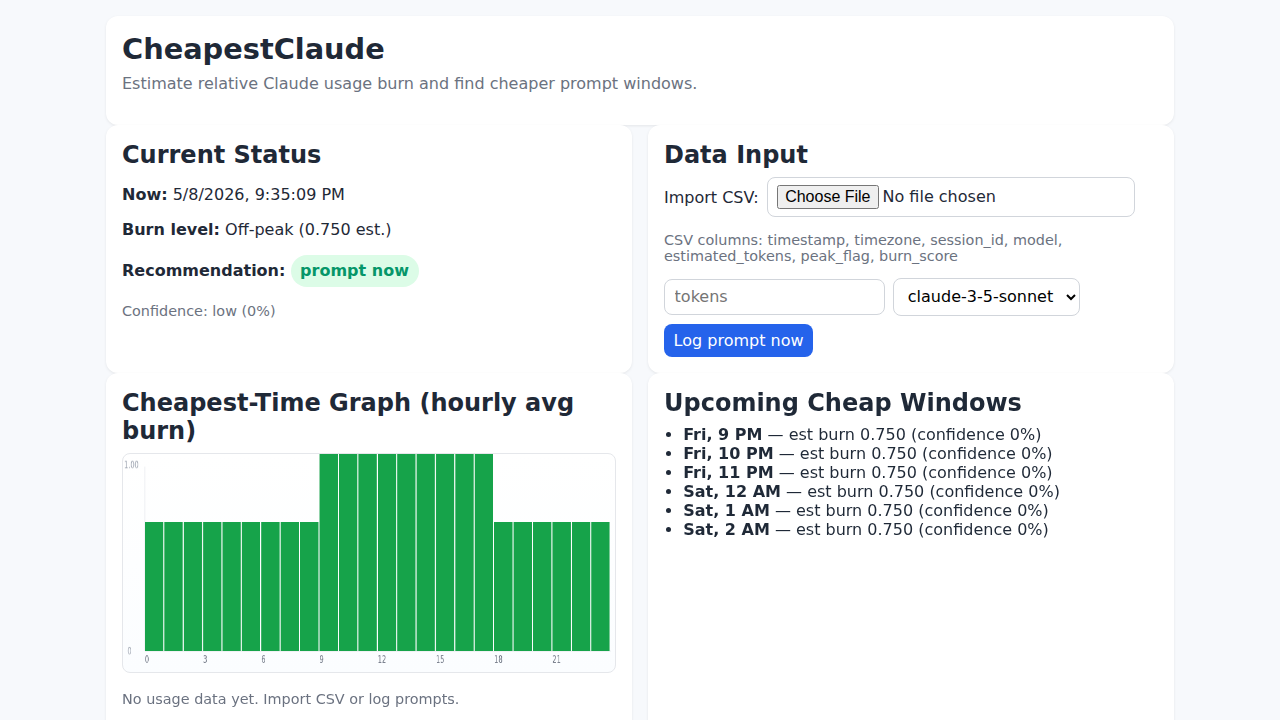
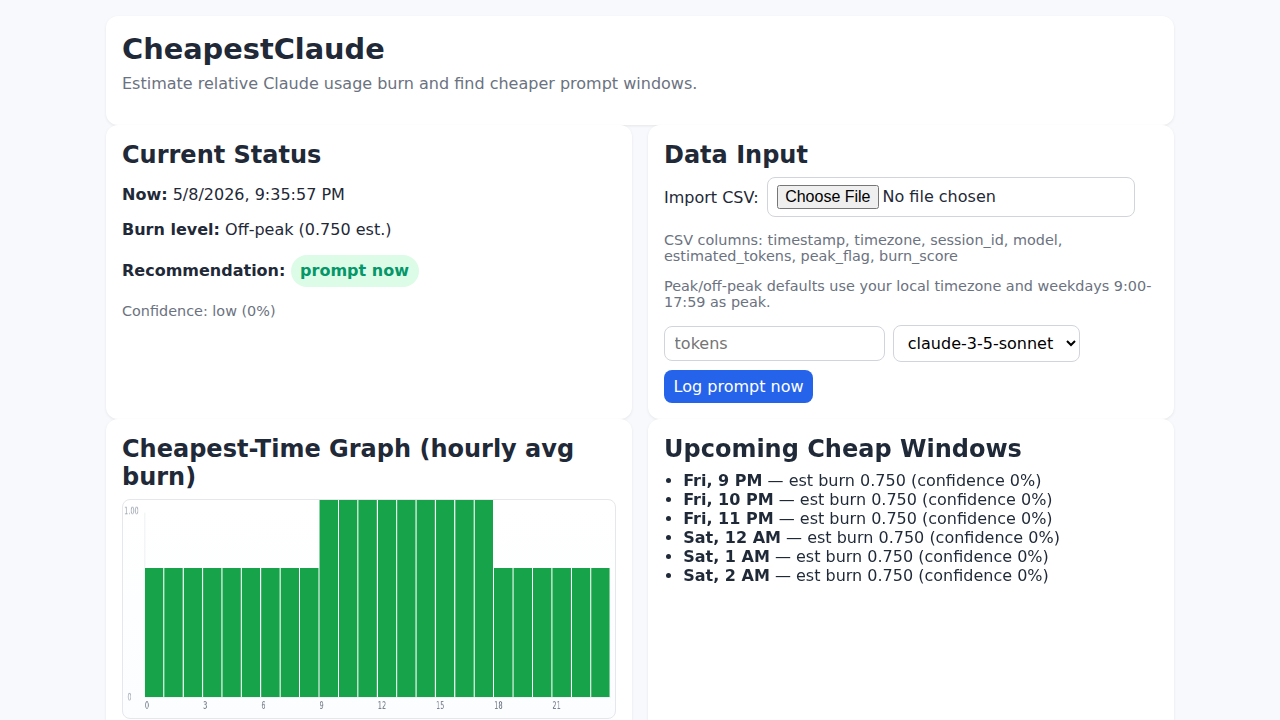
Polish docs and constants for dashboard assumptions
Agent-Logs-Url: https://github.com/jyroscoped/CheapestClaude/sessions/693c5ccb-5a92-44a1-bd61-58b0ff92306e

diff --git a/index.html b/index.html
@@ -160,6 +160,7 @@
             CSV columns: timestamp, timezone, session_id, model, estimated_tokens,
             peak_flag, burn_score
           </p>
+          <p class="tiny">Peak/off-peak defaults use your local timezone and weekdays 9:00-17:59 as peak.</p>
           <div class="row">
             <input id="manualTokens" type="number" min="1" placeholder="tokens" />
             <select id="manualModel">
@@ -224,6 +225,9 @@
     <script>
       const STORAGE_KEY = "cheapestclaude.events.v1";
       const PEAK_HOURS = new Set([9, 10, 11, 12, 13, 14, 15, 16, 17]);
+      const MIN_TOKEN_FLOOR = 120;
+      const TOKEN_NORMALIZER = 1000;
+      const FULL_CONFIDENCE_SAMPLE_COUNT = 5;
       const events = loadEvents();
 
       document.getElementById("csvFile").addEventListener("change", onCsvUpload);
@@ -257,7 +261,7 @@
         }
         const dt = new Date(timestamp);
         const peak = typeof peakFlag === "boolean" ? peakFlag : isPeak(dt);
-        const tokenPart = Math.max(estimatedTokens || 0, 120) / 1000;
+        const tokenPart = Math.max(estimatedTokens || 0, MIN_TOKEN_FLOOR) / TOKEN_NORMALIZER;
         const peakPart = peak ? 1.4 : 0.8;
         return Number((tokenPart * peakPart * modelMultiplier(model)).toFixed(3));
       }
@@ -321,7 +325,7 @@
         return byHour.map((h) => ({
           ...h,
           avg: h.count ? h.total / h.count : null,
-          confidence: Math.min(1, h.count / 5),
+          confidence: Math.min(1, h.count / FULL_CONFIDENCE_SAMPLE_COUNT),
         }));
       }
 

diff --git a/README.md b/README.md
@@ -5,7 +5,7 @@ Claude users do not have a simple, visual way to know when their session burn wi
 
 This repository now includes a lightweight single-page web app at:
 
-- `/home/runner/work/CheapestClaude/CheapestClaude/index.html`
+- `index.html`
 
 ### Features
 
